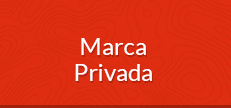
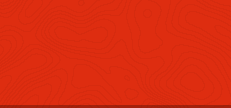
paginas conagra

Changed region(s): [[0.303, 0.5833, 0.6667, 0.7778], [0.3333, 0.3333, 0.6364, 0.5278]]

diff --git a/src/Odiseo/Bundle/ConAgraBundle/Resources/public/css/main.css b/src/Odiseo/Bundle/ConAgraBundle/Resources/public/css/main.css
@@ -200,6 +200,130 @@ footer {
 	padding:0;
 }
 
+.quienesconagra .quienes_03 .marca{
+  position: relative;
+}
+.quienesconagra .quienes_03 .marca a{
+  display:block;
+}	
+.quienesconagra .quienes_03 .marca img{
+  margin: 0 auto;
+}
+.quienesconagra .quienes_03 .marca span{
+  position: absolute;
+  bottom: 33%;
+  left: 0%;
+  font-size: 22px;
+  width: 100%;
+  text-align: center;
+  color: #fff;
+}
+
+.quienesconagra .quienes_03 .marca.consumo span{
+  position: absolute;
+  bottom: 22%;
+}
+.quienesconagra .quienes_03 .marca.privada span{
+  position: absolute;
+  bottom: 22%;
+}
+
+.quienesconagra .quienes_04{
+  margin-top:3%;
+}	
+.quienesconagra .quienes_04 .marca{
+  position: relative;
+}
+.quienesconagra .quienes_04 .marca a{
+  display:block;
+}	
+.quienesconagra .quienes_04 .marca img{
+  margin: 0 auto;
+}
+.quienesconagra .quienes_04 .marca span{
+  position: absolute;
+  bottom: 9%;
+  left: 0%;
+  font-size: 22px;
+  width: 100%;
+  text-align: center;
+  color: #fff;
+}	
+.quienesconagra .quienes_06 .marcas > div{
+  padding:0;
+}
+.quienesconagra .quienes_06 .marcas2 > div{
+  padding:0;
+}
+.quienesconagra .quienes_06 .marcas .marca1 img,.quienesconagra .quienes_06 .marcas2 .marca1 img{
+	float:right;
+}
+.quienesconagra .quienes_06 .marcas2{
+	margin-top:1%;
+}
+
+.quienesconagra .quienes_07 p {
+  color: #383838;
+  font-size: 16px;
+  font-weight: 500;
+}
+.quienesconagra .quienes_07 p.asterisk {
+  font-size: 13px;
+  font-weight: 100;
+}
+.quienesconagra .quienes_07 img{
+  position: absolute;
+  bottom: 1%;
+  max-width: 75%;
+  left: 12%;
+}
+.quienesconagra .subTitle {
+	font-family: 'hand_of_sean_demoregular';
+	font-size:	19px;
+}
+.quienesconagra .quienes_08 p {
+  color: #383838;
+  font-size: 17px;
+  font-weight: 500;
+}
+.quienesconagra .quienes_08 img{
+  position: absolute;
+  bottom: 1%;
+  max-width: 80%;
+  left: 12%;
+}
+.quienesconagra .quienes_09 .marcasComerciales{
+  width:100%;
+}
+.quienesconagra .quienes_09 .marcasComerciales > div{
+  width: 16%;
+  margin-right: 4%;
+  float:left;
+  position:relative;
+}
+.quienesconagra .quienes_09 .marcasComerciales p{
+  position: absolute;
+  font-size: 14px;
+  width: 100%;
+  text-align: center;
+  color: #fff;
+  padding: 0px 10px;
+}
+.quienesconagra .quienes_09 .marcasComerciales .marca1 p{
+  bottom: 28%;
+}	
+.quienesconagra .quienes_09 .marcasComerciales .marca2 p{
+  bottom: 0%;
+}	
+.quienesconagra .quienes_09 .marcasComerciales .marca3 p{
+  bottom: 19%;
+}		
+.quienesconagra .quienes_09 .marcasComerciales .marca4 p{
+  bottom: 28%;
+}		
+.quienesconagra .quienes_09 .marcasComerciales .marca5 p{
+  bottom: 28%;
+}			
 #content .entrenamiento_marcas .mainTitle {
 	margin: 0 0 20px 0;
 }

diff --git a/src/Odiseo/Bundle/ConAgraBundle/Resources/public/css/media-queries.css b/src/Odiseo/Bundle/ConAgraBundle/Resources/public/css/media-queries.css
@@ -218,6 +218,9 @@
 /* Bootrstrap max XS (<= 768) */ 
 @media only screen and (max-width : 768px)  
 { 
+	.quienesconagra .quienes_06 .marcas .marca1 img,.quienesconagra .quienes_06 .marcas2 .marca1 img{
+		float:none;
+	}
 	
 	header .logout {
 		position: absolute;
